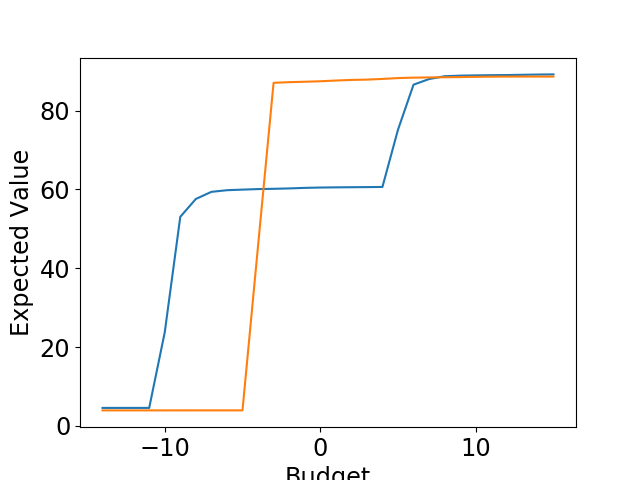
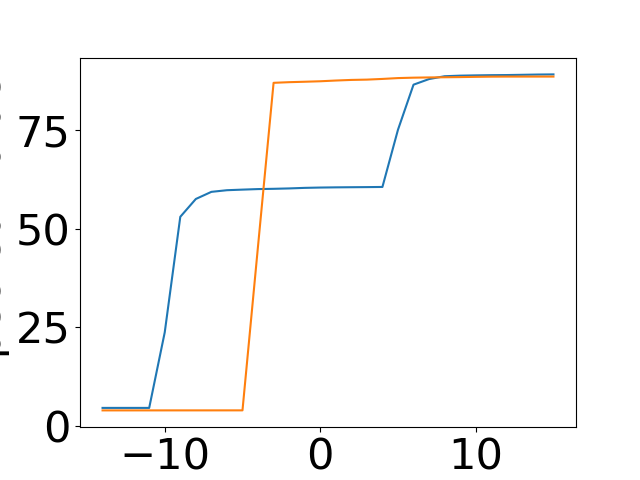
Antes de cambiar grafica de brad.

diff --git a/grid51.py b/grid51.py
@@ -127,49 +127,50 @@ if __name__ == "__main__":
     # fig_failure, axs_failure = plt.subplots(nrows=len(budgets), sharex=True, sharey=True)
 
     # for b in range(len(budgets)):
-
+    #
     #     print(str(budgets[b])+" ==============================================")
-
+    #
     #     exp = Experimenter(init_b=budgets[b])
 
-    #     # safe_results, _ = exp.run(agent_name='safe')
-    #     # c51_results, _ = exp.run(agent_name='c51')
-    #     # risky_results, _ = exp.run(agent_name='risky')
+        # safe_results, _ = exp.run(agent_name='safe')
+        # c51_results, _ = exp.run(agent_name='c51')
+        # risky_results, _ = exp.run(agent_name='risky')
 
-    #     safe_results = np.load('results/safe_' + str(b) + '.npy')
-    #     c51_results = np.load('results/c51_' + str(b) + '.npy')
-    #     risky_results = np.load('results/risky_' + str(b) + '.npy')
+        # safe_results = np.load('results/safe_' + str(b) + '.npy')
+        # c51_results = np.load('results/c51_' + str(b) + '.npy')
+        # risky_results = np.load('results/risky_' + str(b) + '.npy')
 
-    #     # print("safe")
-    #     # print(safe_results)
-    #     # print("c51")
-    #     # print(c51_results)
-    #     # print("risky")
-    #     # print(risky_results)
+        # print("safe")
+        # print(safe_results)
+        # print("c51")
+        # print(c51_results)
+        # print("risky")
+        # print(risky_results)
 
-    #     np.save('results/safe_'+str(b)+'.npy', safe_results)
-    #     np.save('results/c51_' + str(b) + '.npy', c51_results)
-    #     np.save('results/risky_' + str(b) + '.npy', risky_results)
+        # np.save('results/safe_'+str(b)+'.npy', safe_results)
+        # np.save('results/c51_' + str(b) + '.npy', c51_results)
+        # np.save('results/risky_' + str(b) + '.npy', risky_results)
+        #
+        # ax = plot_avg_std(axs_avg[b], safe_results, 'b0='+str(budgets[b]), '-', label="safe", errorevery=5)
+        # ax = plot_avg_std(axs_avg[b], c51_results, 'b0=' + str(budgets[b]), '-.', label="r")
+        # ax = plot_avg_std(axs_avg[b], risky_results, 'b0='+str(budgets[b]), ':', label="risky", errorevery=4)
 
-    #     ax = plot_avg_std(axs_avg[b], safe_results, 'b0='+str(budgets[b]), '-', label="safe", errorevery=5)
-    #     ax = plot_avg_std(axs_avg[b], c51_results, 'b0=' + str(budgets[b]), '-.', label="r")
-    #     ax = plot_avg_std(axs_avg[b], risky_results, 'b0='+str(budgets[b]), ':', label="risky", errorevery=4)
-
-    #     # ax = plot_trajectories(axs_avg, c51_results, 'b0=' + str(budgets[b]), label="r")
+        # ax = plot_trajectories(axs_avg, c51_results, 'b0=' + str(budgets[b]), label="r")
 
 
-    #     plt.legend()
+        # plt.legend()
 
     #     ax = plot_failure_rate(axs_failure[b], safe_results, 'b0='+str(budgets[b]), '-')
     #     ax = plot_failure_rate(axs_failure[b], c51_results, 'b0=' + str(budgets[b]), '-.')
     #     ax = plot_failure_rate(axs_failure[b], risky_results, 'b0='+str(budgets[b]), ':')
-
+    #
     #     plt.legend()
-
+    #
     # fig_avg.suptitle('Average final budget per episode')
     # fig_failure.suptitle('Failure count per experiment')
-
+    #
     # fig_avg.tight_layout()
     # fig_failure.tight_layout()
 
     # plt.show()
+#

diff --git a/agents/helpers/plot_histogram.py b/agents/helpers/plot_histogram.py
@@ -1,7 +1,10 @@
 #!/usr/bin/env python
 
 import numpy as np
+import matplotlib
 import matplotlib.pyplot as plt
+
+matplotlib.rcParams.update({'font.size': 16})
 
 
 class PlotHistogramRT:
@@ -37,44 +40,58 @@ class PlotHistogramRT:
 
         # print np.asarray(new_x).shape
         #
+        # fig = plt.figure(self.this_fig_num)
+
+        fig, (ax1, ax2, ax3, ax4) = plt.subplots(nrows=4, ncols=1, sharex=True)
         fig = plt.figure(self.this_fig_num)
+
         plt.clf()
 
-        ax1 = plt.subplot(4, 1, 1)
+        # ax1 = plt.subplot(4, 1, 1)
         for ind in range(len(new_y[0])):
-            plt.bar(new_x, new_y[0][ind], width=self.width, label=self.label_names[ind])
+            ax1.bar(new_x, new_y[0][ind], width=self.width, label=self.label_names[ind])
         plt.grid(True)
-        plt.ylabel('c51')
-
-        ax2 = plt.subplot(4, 1, 2)
-        for ind in range(len(new_y[0])):
-            plt.plot(new_x, np.cumsum(new_y[0][ind]),
-                    label=self.label_names[ind])
-        plt.grid(True)
-        plt.ylabel('CDF')
-
-        # prob of alive given b
-        ax3 = plt.subplot(4, 1, 3)
-        for ind in range(len(new_y[0])):
-            plt.plot(+1 * new_x, new_y[2][ind],
-                     label=self.label_names[ind])
-        plt.grid(True)
-        plt.ylabel('Beta(b, s2, a)')
+        ax1.set_ylabel('c51')
         plt.legend()
 
-        ax3_a = plt.subplot(4, 1, 4, sharex = ax1)
+        # ax2 = plt.subplot(4, 1, 2)
+        for ind in range(len(new_y[0])):
+            ax2.plot(new_x, np.cumsum(new_y[0][ind]),
+                     label=self.label_names[ind])
+        plt.grid(True)
+        ax2.set_ylabel('CDF')
+        plt.legend()
+
+        # prob of alive given b
+        # ax3 = plt.subplot(4, 1, 3)
+        for ind in range(len(new_y[0])):
+            ax3.plot(+1 * new_x, new_y[2][ind],
+                     label=self.label_names[ind])
+        plt.grid(True)
+        ax3.set_ylabel('Beta')
+        plt.legend()
+
+        # ax3_a = plt.subplot(4, 1, 4, sharex=ax1)
         # ax3_b = ax3_a.twinx()
         for ind in range(len(new_y[0])):
             # modified q values
             # ax3_b.plot(-1 * new_x, new_y[3][ind], linestyle='--')
             # ax3_b.set_ylabel('Q')
             # q values
-            ax3_a.plot(+1 * new_x, new_y[1][ind])
-            ax3_a.set_ylabel('Vopt(s2,a|b)')
+            ax4.plot(+1 * new_x, new_y[1][ind])
+            ax4.set_ylabel('Qopt')
+        plt.legend()
         plt.grid(True)
 
+        # top = 0.973,
+        # bottom = 0.068,
+        # left = 0.122,
+        # right = 0.978,
+        # hspace = 0.595,
+        # wspace = 0.2
+
         fig.canvas.draw()
-        plt.tight_layout(pad=0.4, w_pad=0.4, h_pad=0.4)
+        plt.tight_layout()
         plt.pause(0.00001)
 
 

diff --git a/agents/c51_grid_agent.py b/agents/c51_grid_agent.py
@@ -112,7 +112,7 @@ class C51GridAgent:
 
         return s_t1
 
-    def plot_policy(self, int_states=[1, 2, 3]):
+    def plot_policy(self, int_states=[2]):
         """
         Makes plot policies for all actions and states  int_states
         :return:
@@ -162,7 +162,7 @@ class C51GridAgent:
 
         self.misc = {'sum_reward': 0}
 
-        self.plot_policy()
+        # self.plot_policy()
 
         while not self.is_terminated:
 

diff --git a/plotters/policy_plotter.py b/plotters/policy_plotter.py
@@ -1,5 +1,8 @@
+import matplotlib
 import matplotlib.pyplot as plt
 import numpy as np
+
+matplotlib.rcParams.update({'font.size': 18})
 
 
 def plot(states_labels, support, Qs):
